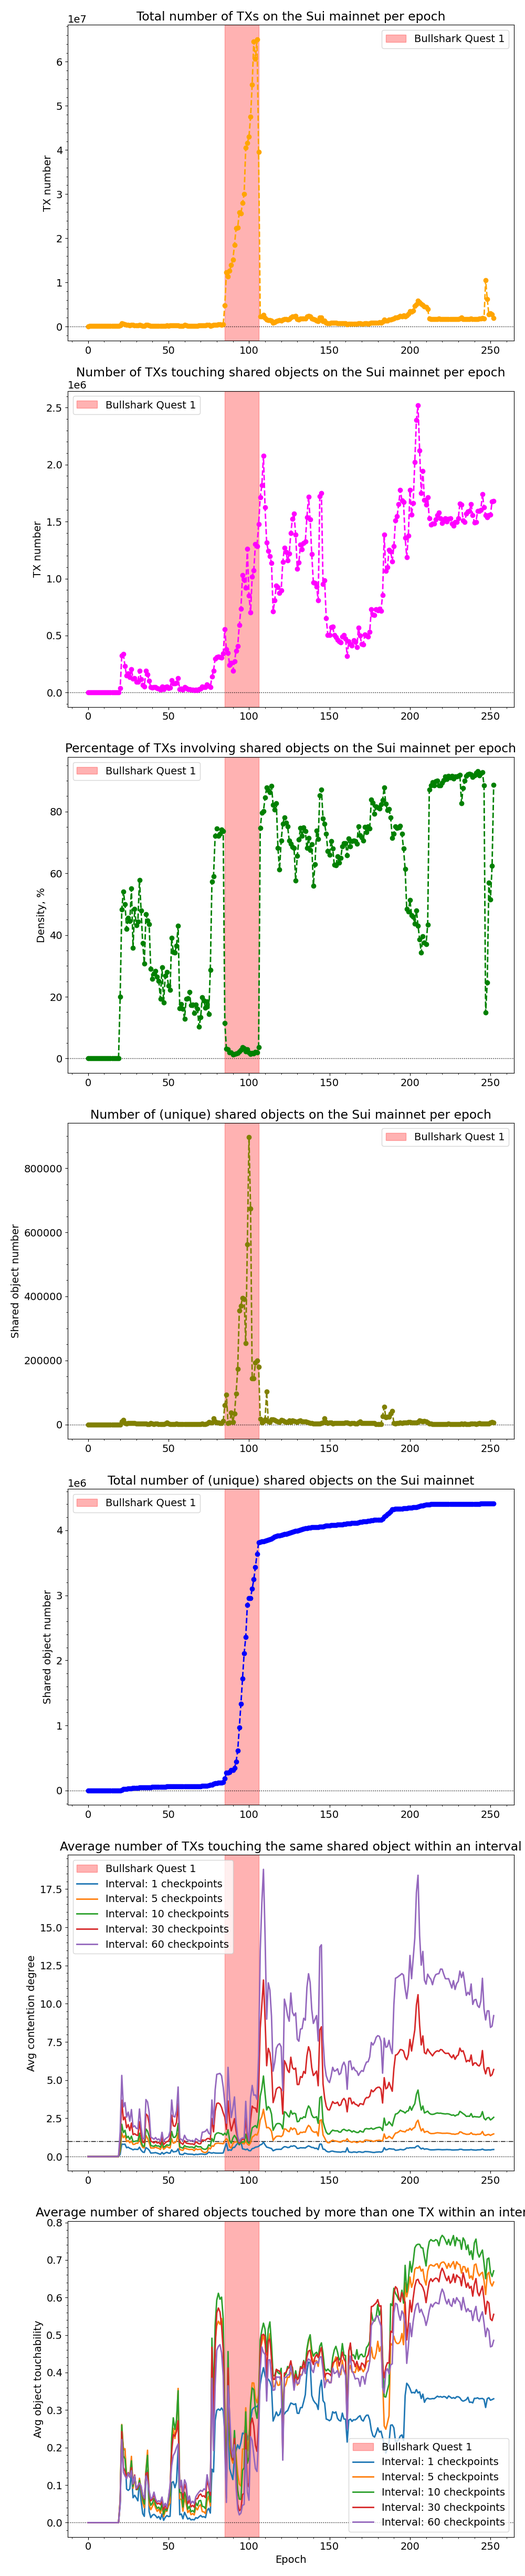
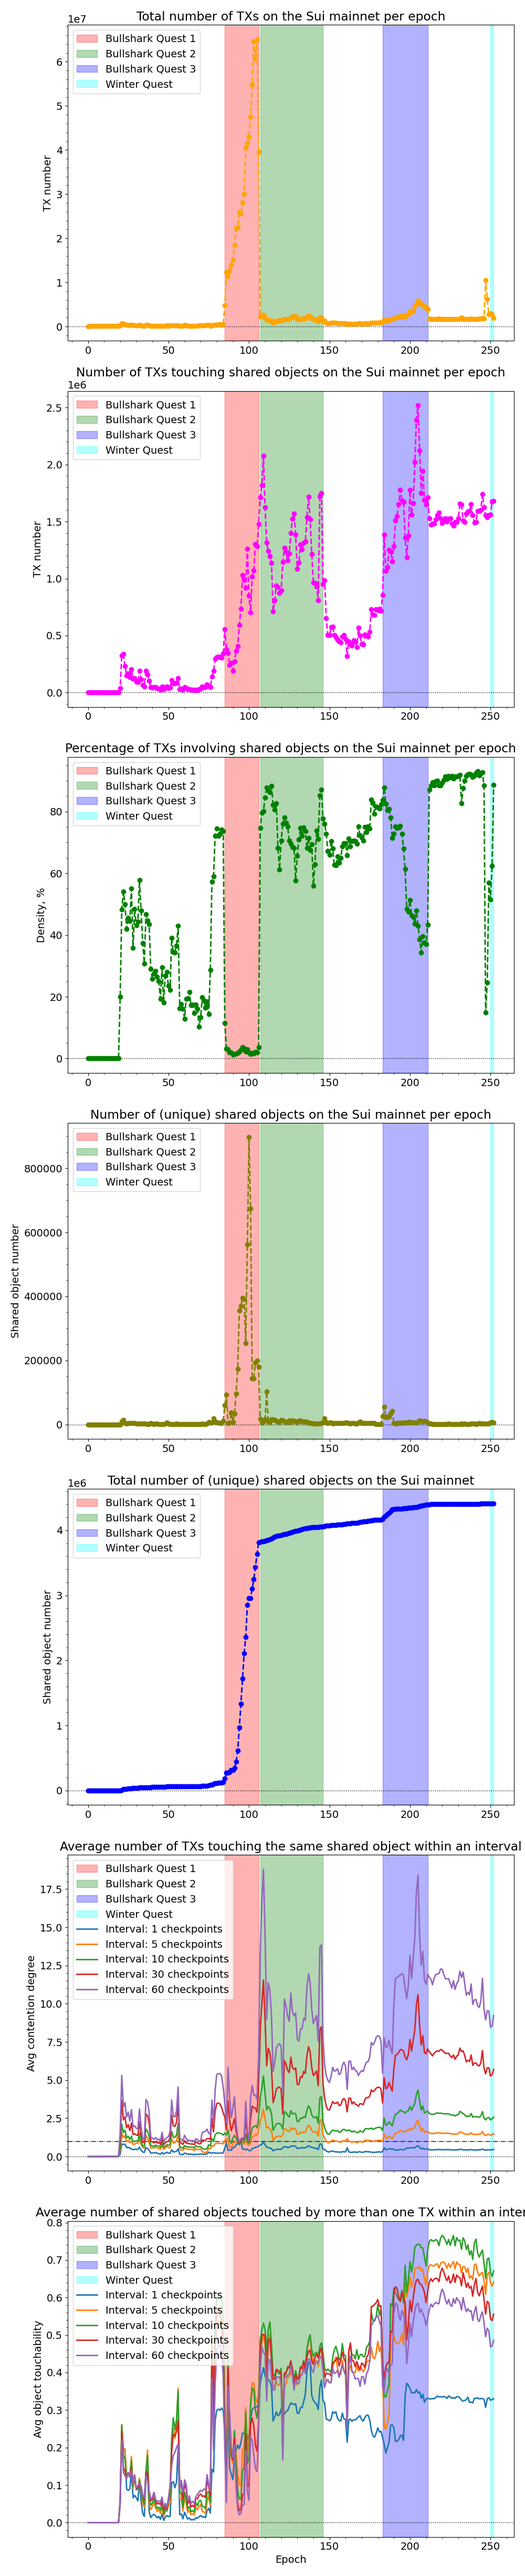
Add more quests to the main figure

diff --git a/python/main.py b/python/main.py
@@ -10,6 +10,13 @@ with open(FILE, 'r') as f:
 
 BULLSHARK_QUEST_1_START = 85
 BULLSHARK_QUEST_1_END = 106
+BULLSHARK_QUEST_2_START = 107
+BULLSHARK_QUEST_2_END = 146
+BULLSHARK_QUEST_3_START = 183
+BULLSHARK_QUEST_3_END = 211
+WINTER_QUEST_START = 250
+WINTER_QUEST_END = list(json_['epochs'].keys())[-1] # TODO
+
 
 main_df = pd.DataFrame.from_dict(json_['epochs'], orient='index')
 main_df.index = main_df.index.astype(int);
@@ -22,6 +29,9 @@ fig, (ax1, ax2, ax3, ax4, ax5, ax6, ax7) = plt.subplots(nrows=NUM_SUBPLOTS, ncol
 print('Total number of scanned TXs: {}'.format(main_df['num_txs_total'].sum()))
 
 ax1.axvspan(BULLSHARK_QUEST_1_START, BULLSHARK_QUEST_1_END, alpha=0.3, color='red', label='Bullshark Quest 1')
+ax1.axvspan(BULLSHARK_QUEST_2_START, BULLSHARK_QUEST_2_END, alpha=0.3, color='green', label='Bullshark Quest 2')
+ax1.axvspan(BULLSHARK_QUEST_3_START, BULLSHARK_QUEST_3_END, alpha=0.3, color='blue', label='Bullshark Quest 3')
+ax1.axvspan(WINTER_QUEST_START, WINTER_QUEST_END, alpha=0.3, color='cyan', label='Winter Quest')
 ax1.axhline(y=0, linestyle=':', linewidth=1, color='black')
 ax1.plot(main_df['num_txs_total'], linewidth=2, linestyle='--', marker='o', color='orange')
 ax1.set_title('Total number of TXs on the Sui mainnet per epoch')
@@ -30,6 +40,9 @@ ax1.minorticks_on()
 ax1.legend()
 
 ax2.axvspan(BULLSHARK_QUEST_1_START, BULLSHARK_QUEST_1_END, alpha=0.3, color='red', label='Bullshark Quest 1')
+ax2.axvspan(BULLSHARK_QUEST_2_START, BULLSHARK_QUEST_2_END, alpha=0.3, color='green', label='Bullshark Quest 2')
+ax2.axvspan(BULLSHARK_QUEST_3_START, BULLSHARK_QUEST_3_END, alpha=0.3, color='blue', label='Bullshark Quest 3')
+ax2.axvspan(WINTER_QUEST_START, WINTER_QUEST_END, alpha=0.3, color='cyan', label='Winter Quest')
 ax2.axhline(y=0, linestyle=':', linewidth=1, color='black')
 ax2.plot(main_df['num_txs_touching_shared_objs'], linewidth=2, linestyle='--', marker='o', color='magenta')
 ax2.set_title('Number of TXs touching shared objects on the Sui mainnet per epoch')
@@ -38,6 +51,9 @@ ax2.minorticks_on()
 ax2.legend()
 
 ax3.axvspan(BULLSHARK_QUEST_1_START, BULLSHARK_QUEST_1_END, alpha=0.3, color='red', label='Bullshark Quest 1')
+ax3.axvspan(BULLSHARK_QUEST_2_START, BULLSHARK_QUEST_2_END, alpha=0.3, color='green', label='Bullshark Quest 2')
+ax3.axvspan(BULLSHARK_QUEST_3_START, BULLSHARK_QUEST_3_END, alpha=0.3, color='blue', label='Bullshark Quest 3')
+ax3.axvspan(WINTER_QUEST_START, WINTER_QUEST_END, alpha=0.3, color='cyan', label='Winter Quest')
 ax3.axhline(y=0, linestyle=':', linewidth=1, color='black')
 ax3.plot(main_df['density'] * 100, linewidth=2, linestyle='--', marker='o', color='green')
 ax3.set_title('Percentage of TXs involving shared objects on the Sui mainnet per epoch')
@@ -46,6 +62,9 @@ ax3.minorticks_on()
 ax3.legend()
 
 ax4.axvspan(BULLSHARK_QUEST_1_START, BULLSHARK_QUEST_1_END, alpha=0.3, color='red', label='Bullshark Quest 1')
+ax4.axvspan(BULLSHARK_QUEST_2_START, BULLSHARK_QUEST_2_END, alpha=0.3, color='green', label='Bullshark Quest 2')
+ax4.axvspan(BULLSHARK_QUEST_3_START, BULLSHARK_QUEST_3_END, alpha=0.3, color='blue', label='Bullshark Quest 3')
+ax4.axvspan(WINTER_QUEST_START, WINTER_QUEST_END, alpha=0.3, color='cyan', label='Winter Quest')
 ax4.axhline(y=0, linestyle=':', linewidth=1, color='black')
 ax4.plot(main_df['num_shared_objects_per_epoch'], linewidth=2, linestyle='--', marker='o', color='olive')
 ax4.set_title('Number of (unique) shared objects on the Sui mainnet per epoch')
@@ -54,6 +73,9 @@ ax4.minorticks_on()
 ax4.legend()
 
 ax5.axvspan(BULLSHARK_QUEST_1_START, BULLSHARK_QUEST_1_END, alpha=0.3, color='red', label='Bullshark Quest 1')
+ax5.axvspan(BULLSHARK_QUEST_2_START, BULLSHARK_QUEST_2_END, alpha=0.3, color='green', label='Bullshark Quest 2')
+ax5.axvspan(BULLSHARK_QUEST_3_START, BULLSHARK_QUEST_3_END, alpha=0.3, color='blue', label='Bullshark Quest 3')
+ax5.axvspan(WINTER_QUEST_START, WINTER_QUEST_END, alpha=0.3, color='cyan', label='Winter Quest')
 ax5.axhline(y=0, linestyle=':', linewidth=1, color='black')
 ax5.plot(main_df['num_shared_objects_total'], linewidth=2, linestyle='--', marker='o', color='blue')
 ax5.set_title('Total number of (unique) shared objects on the Sui mainnet')
@@ -62,6 +84,9 @@ ax5.minorticks_on()
 ax5.legend()
 
 ax6.axvspan(BULLSHARK_QUEST_1_START, BULLSHARK_QUEST_1_END, alpha=0.3, color='red', label='Bullshark Quest 1')
+ax6.axvspan(BULLSHARK_QUEST_2_START, BULLSHARK_QUEST_2_END, alpha=0.3, color='green', label='Bullshark Quest 2')
+ax6.axvspan(BULLSHARK_QUEST_3_START, BULLSHARK_QUEST_3_END, alpha=0.3, color='blue', label='Bullshark Quest 3')
+ax6.axvspan(WINTER_QUEST_START, WINTER_QUEST_END, alpha=0.3, color='cyan', label='Winter Quest')
 ax6.axhline(y=0, linestyle=':', linewidth=1, color='black')
 ax6.axhline(y=1, linestyle='-.', linewidth=1, color='black')
 for col in interval_df:
@@ -73,6 +98,9 @@ ax6.minorticks_on()
 ax6.legend()
 
 ax7.axvspan(BULLSHARK_QUEST_1_START, BULLSHARK_QUEST_1_END, alpha=0.3, color='red', label='Bullshark Quest 1')
+ax7.axvspan(BULLSHARK_QUEST_2_START, BULLSHARK_QUEST_2_END, alpha=0.3, color='green', label='Bullshark Quest 2')
+ax7.axvspan(BULLSHARK_QUEST_3_START, BULLSHARK_QUEST_3_END, alpha=0.3, color='blue', label='Bullshark Quest 3')
+ax7.axvspan(WINTER_QUEST_START, WINTER_QUEST_END, alpha=0.3, color='cyan', label='Winter Quest')
 ax7.axhline(y=0, linestyle=':', linewidth=1, color='black')
 for col in interval_df:
     if not 'degree' in col:
